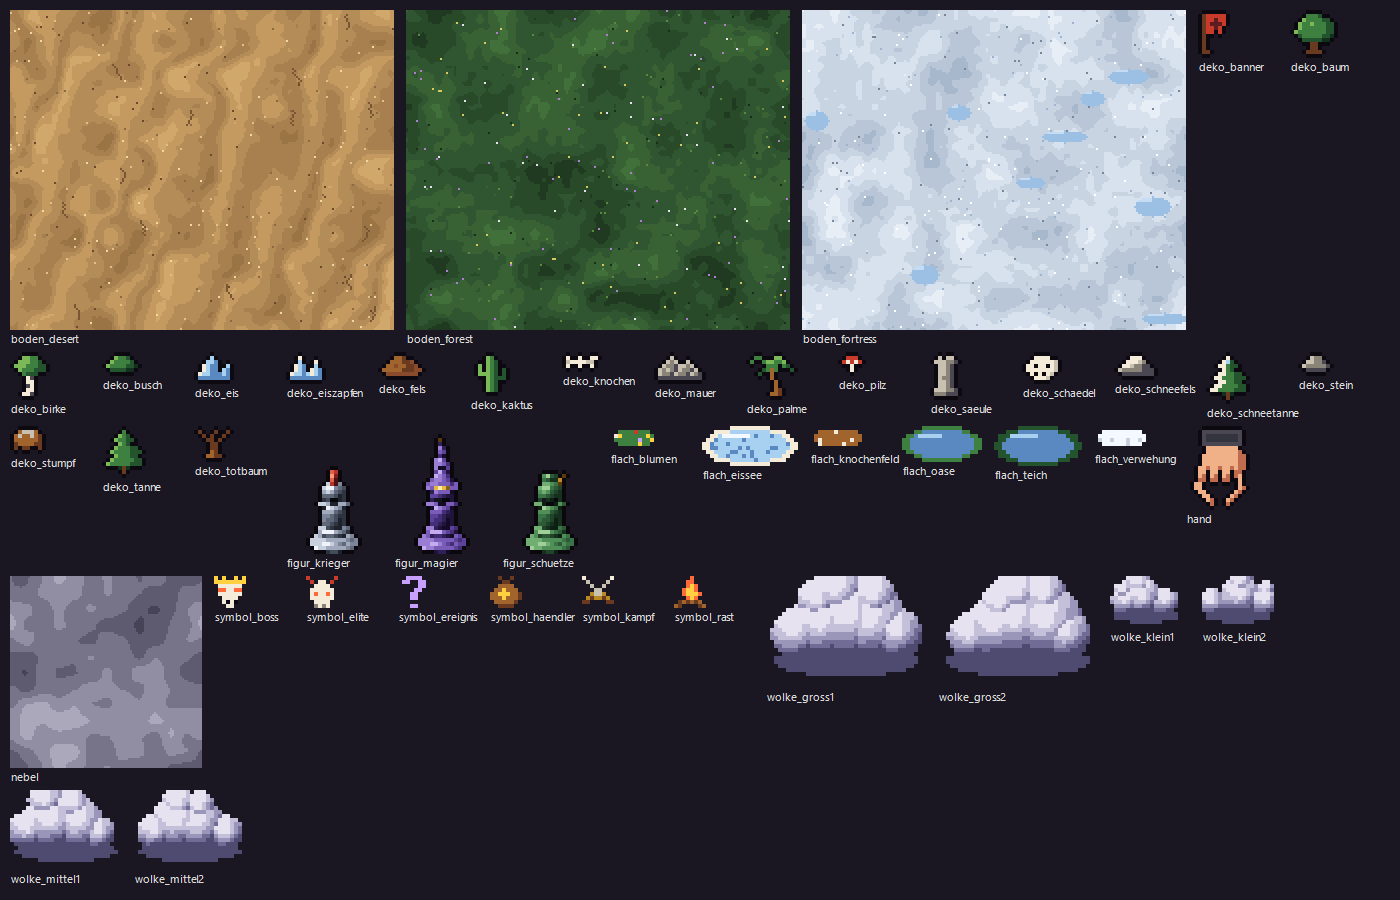
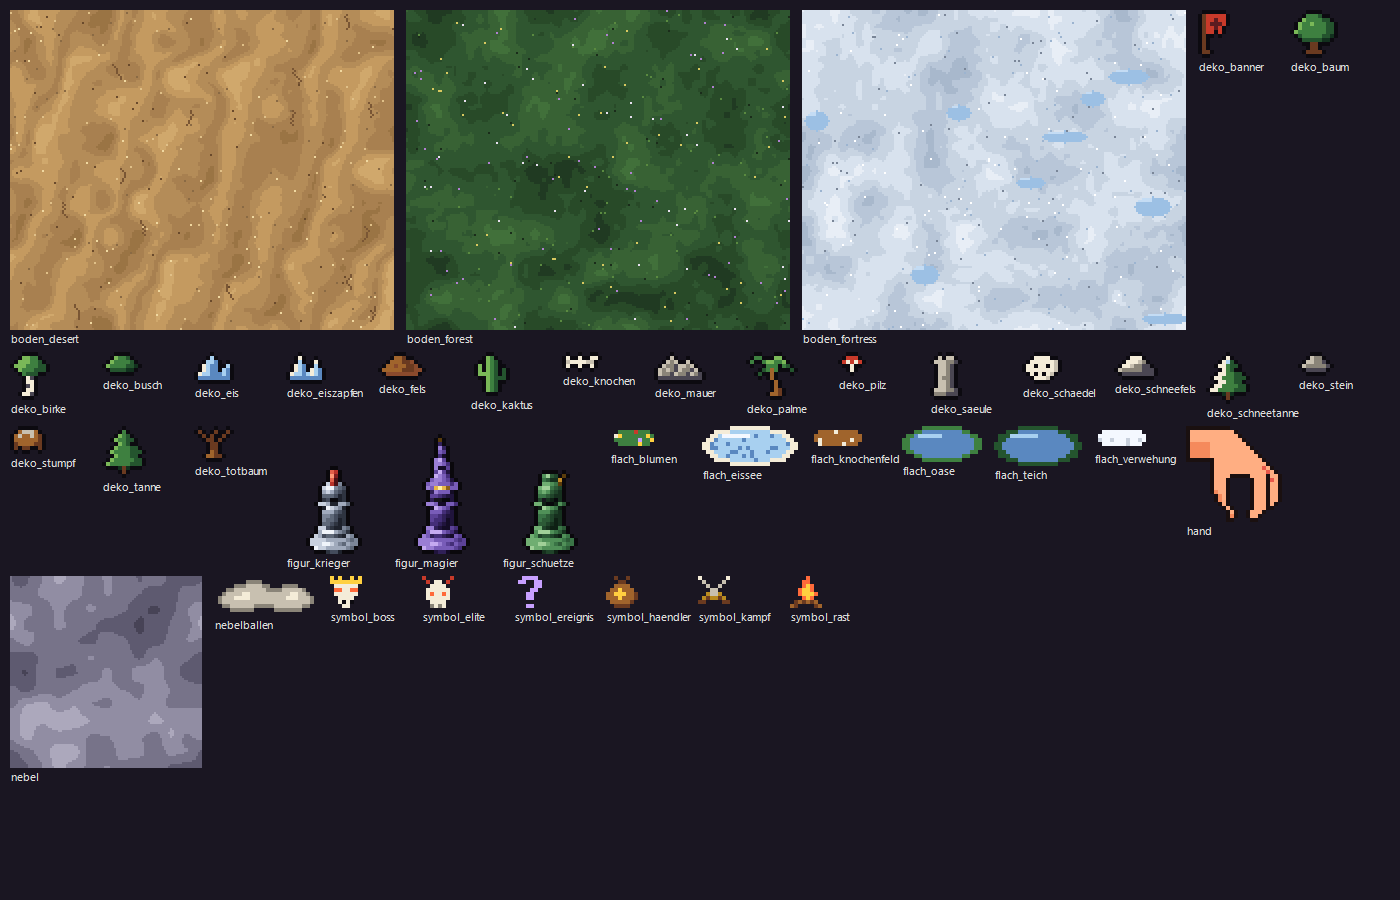
Simple reference-style hand, old fog back with a soft edge on the board, rounded board, HUD see-through only over the board

Changed region(s): [[0.1536, 0.6222, 0.9214, 0.7778], [0.0, 0.8711, 0.1843, 0.9956], [0.8293, 0.4667, 0.9214, 0.5911]]

diff --git a/ui/style.css b/ui/style.css
@@ -373,7 +373,7 @@ h3 { font-size: 12px; font-weight: 400; }
 .world .reg { position: absolute; z-index: 5; top: 12px; left: 50%; transform: translateX(-50%); text-align: center; background: #0c0a10cc; border: 2px solid var(--line); padding: 8px 16px; box-shadow: 4px 4px 0 #000; white-space: nowrap; }
 .world .reg small { display: block; margin-top: 6px; color: var(--mute); }
 .plane { position: absolute; bottom: 7%; height: 126%; transform-origin: 50% 100%; transform: rotateX(var(--tilt)); transform-style: preserve-3d;
-  background-size: 768px 640px; background-repeat: repeat; image-rendering: pixelated; border: 16px solid #6a4220; border-image: repeating-linear-gradient(90deg, #7a4c24 0 24px, #6a4020 24px 40px, #845428 40px 56px) 16; box-shadow: inset 0 0 40px 10px #0007, 0 0 0 4px #1c1008; }
+  background-size: 768px 640px; background-repeat: repeat; image-rendering: pixelated; border: 16px solid #6a4220; border-radius: 48px; box-shadow: inset 0 0 0 3px #3a2210, inset 0 0 40px 10px #0007, 0 0 0 4px #1c1008, inset 0 0 0 0 transparent; outline: 3px solid #8a5a2c; outline-offset: -10px; }
 .trails { position: absolute; inset: 0; width: 100%; height: 100%; overflow: visible; }
 @keyframes trail-run { to { stroke-dashoffset: -16; } }
 
@@ -382,10 +382,9 @@ h3 { font-size: 12px; font-weight: 400; }
 
 
 
-.fogwar { position: absolute; top: -7%; bottom: -16px; right: -16px; transform: translateZ(2px);
-  -webkit-mask-image: linear-gradient(90deg, transparent 0, #0008 50px, #000 120px), linear-gradient(180deg, transparent 0, #000 70px); mask-image: linear-gradient(90deg, transparent 0, #0008 50px, #000 120px), linear-gradient(180deg, transparent 0, #000 70px); -webkit-mask-composite: source-in; mask-composite: intersect; background: url(assets/karte/nebel.png) 0 0 / 384px 384px; image-rendering: pixelated; animation: fog-a 48s steps(96) infinite; }
+.fogwar { position: absolute; top: 0; bottom: 0; right: 0; border-radius: 0 34px 34px 0; transform: translateZ(2px);
+  -webkit-mask-image: linear-gradient(90deg, transparent 0, #0005 90px, #000d 200px, #000 260px); mask-image: linear-gradient(90deg, transparent 0, #0005 90px, #000d 200px, #000 260px); background: url(assets/karte/nebel.png) 0 0 / 384px 384px; image-rendering: pixelated; animation: fog-a 48s steps(96) infinite; }
 .fogwar::after { content: ""; position: absolute; inset: 0; background: inherit; background-size: 256px 256px; opacity: .45; animation: fog-b 32s steps(64) infinite; }
-.fogwar { filter: brightness(.62) saturate(1.2); }
 /* Each layer moves exactly one tile width, so the loop has no visible jump. */
 @keyframes fog-a { from { background-position: 0 0; } to { background-position: 384px 0; } }
 @keyframes fog-b { from { background-position: 0 0; } to { background-position: -256px 0; } }
@@ -466,9 +465,9 @@ h3 { font-size: 12px; font-weight: 400; }
 .spot.k-start.vis { filter: saturate(.2) brightness(.55); }
 
 /* A hand lowers the piece onto the chosen start point and pulls back up. */
-/* Hand: 28x28 pixel art at 4x, reaching in from the left; the pinch (14.7,24) sits on the piece head (48,61). */
-.hero .hand { display: none; position: absolute; left: -11px; top: -35px; width: 112px; height: 112px; filter: drop-shadow(0 6px 0 #0006); }
-.hero .hand img { position: relative; width: 112px; height: 112px; image-rendering: pixelated; }
+/* Hand: 24x24 pixel art at 4x, reaching in from the left; the pinch (14,22.5) sits on the piece head (48,61). */
+.hero .hand { display: none; position: absolute; left: -8px; top: -29px; width: 96px; height: 96px; filter: drop-shadow(0 6px 0 #0006); }
+.hero .hand img { position: relative; width: 96px; height: 96px; image-rendering: pixelated; }
 .hero.placing .hand { display: block; animation: hand-place 3s ease-in-out both; }
 .hero.placing .piece { animation: piece-place 3s ease-in-out both; }
 @keyframes piece-place { 0% { transform: translate(-460px, -420px); } 48% { transform: translate(-6px, -8px); } 56%, 100% { transform: translate(0, 0); } }
@@ -483,28 +482,16 @@ h3 { font-size: 12px; font-weight: 400; }
 .zoom { position: absolute; inset: 0; transform-style: preserve-3d; transform-origin: 50% 70%; transition: transform .2s ease-out; }
 .world.dragging .zoom { transition: none; }
 
-/* Fog running down the front and the right edge of the board. */
-.fogfall { position: absolute; background: url(assets/karte/nebel.png) 0 0 / 384px 384px; image-rendering: pixelated; pointer-events: none; }
-.fogfall.front { top: calc(100% + 16px); right: -16px; height: 170px; transform-origin: 50% 0; transform: translateZ(6px) rotateX(calc(-1 * var(--tilt) - 30deg));
-  -webkit-mask-image: linear-gradient(180deg, #000 0, #0009 45%, transparent 100%), linear-gradient(90deg, transparent 0, #000 120px); mask-image: linear-gradient(180deg, #000 0, #0009 45%, transparent 100%), linear-gradient(90deg, transparent 0, #000 120px); -webkit-mask-composite: source-in; mask-composite: intersect;
-  animation: fog-down 14s steps(96) infinite; }
-.fogfall.side { right: -16px; top: -16px; bottom: -16px; width: 150px; transform-origin: 100% 50%; transform: rotateY(-90deg) translateZ(-3px);
-  -webkit-mask-image: linear-gradient(270deg, #000 0, #0009 45%, transparent 100%); mask-image: linear-gradient(270deg, #000 0, #0009 45%, transparent 100%);
-  animation: fog-side 14s steps(96) infinite; }
-@keyframes fog-down { from { background-position: 0 0; } to { background-position: 0 384px; } }
-@keyframes fog-side { from { background-position: 0 0; } to { background-position: -384px 0; } }
 
-/* Sea of clouds over the fogged part of the board: billows slowly rolling,
-   and clouds pouring over the front edge like a waterfall. */
-.cloud img { display: block; image-rendering: pixelated; animation-name: cloud-roll; animation-timing-function: steps(10); animation-iteration-count: infinite; animation-direction: alternate; }
-.cloud.spill img { animation-name: cloud-spill; animation-timing-function: linear; animation-direction: normal; }
-@keyframes cloud-roll { 0% { transform: translate(0, 0) scale(1); } 50% { transform: translate(6px, -4px) scale(1.04); } 100% { transform: translate(-4px, 2px) scale(.98); } }
-@keyframes cloud-spill { 0% { transform: translateY(-24px) scale(.9); opacity: 0; } 15% { opacity: 1; } 55% { transform: translateY(70px) scale(1.05); opacity: .95; } 100% { transform: translateY(200px) scale(1.25); opacity: 0; } }
-
-/* The board fills the whole window behind the side panel; the panel floats
-   over it, half see-through, and fades further while the board is dragged. */
+/* The board fills the whole window behind the side panel, which floats over it. */
 .map-scene .world { position: fixed; inset: 0; width: auto; height: auto; margin: 0; z-index: 0; }
 .map-scene .side { position: relative; z-index: 3; transition: opacity .3s; }
-.map-scene .side .box { background: #0c0a10b8; backdrop-filter: blur(2px); }
-.map-scene:has(.world.dragging) .side { opacity: .25; }
+/* Only when the board lies under the panel does it turn slightly see-through. */
+.map-scene:has(.world.under-hud) .side { opacity: .82; }
 .map-scene .notice { position: relative; z-index: 4; }
+.puff img { animation: puff-bob 3s steps(3) infinite alternate; opacity: .95; }
+@keyframes puff-bob { to { transform: translateY(-6px) translateX(4px); } }
+/* Rounded board: the front and side faces stop short of the rounded corners. */
+.plane::after { left: 32px; right: 32px; }
+.bside { top: 32px; bottom: 32px; }
+.plane::before { border-radius: 64px; }

diff --git a/ui/src/worldmap.rs b/ui/src/worldmap.rs
@@ -13,6 +13,9 @@ const SIGHT: i32 = 2;
 const SPAN: f64 = 320.0;
 /// Where the hero stands, in percent of the window width.
 const HERO_AT: f64 = 32.0;
+/// Right edge of the side panel in pixels; the panel turns see-through when
+/// the board reaches under it.
+const HUD_EDGE: f64 = 192.0;
 /// Where the hero stands before the first step.
 const START: (f64, f64) = (3.5, 58.0);
 
@@ -538,57 +541,48 @@ pub fn world(game: Game, run: &Run) -> AnyView {
         }
     });
 
-    // --- Fog: a flat layer with a soft edge, puffs standing along it, and
-    // falls running down the edges of the board.
+    // --- Fog: a flat layer with a soft edge and puffs standing along it.
     let fog = fog_x.map(|fx| {
         let left = fx - 2.0;
-        // A sea of clouds: billows packed in rows from the back to the front,
-        // big ones at the leading edge and near the viewer, all slowly
-        // rolling. Along the front edge clouds keep pouring over the rim.
-        const SIZES: [(&str, f64, f64); 3] = [("gross", 40.0, 28.0), ("mittel", 28.0, 20.0), ("klein", 18.0, 13.0)];
-        let mut clouds: Vec<(f64, f64, usize, u64, &'static str)> = Vec::new();
+        // A wall of puffs along the soft edge, then loose banks over the
+        // fog, all kept on the board.
+        let mut spots: Vec<(f64, f64, f64)> = (0..10)
+            .map(|i| {
+                (
+                    fx + 0.8 + unit(mix(salt ^ i)) * 1.0,
+                    6.0 + i as f64 * 9.8,
+                    1.2,
+                )
+            })
+            .collect();
         let mut h = mix(salt ^ 0xF06);
-        let mut y = 2.0;
-        while y < 101.0 {
-            let mut x = fx + 0.8 + (unit(mix(h ^ 5)) + 1.0) * 1.2;
-            while x < 101.0 {
+        let mut x = fx + 6.0;
+        while x < 96.0 {
+            let mut y = 8.0 + (unit(h) + 1.0) * 4.0;
+            while y < 94.0 {
                 h = mix(h);
-                let edge = x < fx + 4.0;
-                let size = if edge || y > 80.0 { (h % 2) as usize } else { (h % 3) as usize };
-                clouds.push((x + unit(h) * 1.0, y + unit(mix(h)) * 2.0, size, h, "roll"));
-                x += if size == 0 { 4.6 } else if size == 1 { 3.4 } else { 2.6 };
+                spots.push((x + unit(h) * 2.0, y, 0.8 + (unit(mix(h)) + 1.0) * 0.3));
+                y += 18.0 + (unit(mix(h ^ 3)) + 1.0) * 5.0;
             }
-            y += 7.5;
+            x += 8.0;
         }
-        // Clouds tumbling over the front edge, staggered.
-        let mut x = fx + 1.0;
-        let mut k = 0u64;
-        while x < 100.0 {
-            h = mix(h ^ k);
-            clouds.push((x + unit(h) * 1.2, 100.5, (h % 2) as usize, h, "spill"));
-            x += 3.2;
-            k += 1;
-        }
-        let puffs = clouds
+        let puffs = spots
             .into_iter()
-            .map(|(x, y, size, h, kind)| {
-                let (name, w, ht) = SIZES[size];
-                let variant = 1 + (h >> 7) % 2;
-                let dur = if kind == "spill" { 7.0 + (h % 40) as f64 / 10.0 } else { 6.0 + (h % 60) as f64 / 10.0 };
-                let delay = (h >> 13) % 100;
+            .enumerate()
+            .map(|(i, (x, y, s))| {
                 standing(
                     x,
                     y,
-                    &format!("cloud {kind}"),
+                    "puff",
                     view! {
                         <img
-                            src=format!("assets/karte/wolke_{name}{variant}.png")
+                            src="assets/karte/nebelballen.png"
                             alt=""
                             style=format!(
-                                "width:{:.0}px;height:{:.0}px;animation-duration:{dur:.1}s;animation-delay:-{:.1}s",
-                                w * 5.0,
-                                ht * 5.0,
-                                dur * delay as f64 / 100.0,
+                                "width:{:.0}px;height:{:.0}px;animation-delay:-{}s",
+                                104.0 * s,
+                                40.0 * s,
+                                i * 7 % 5,
                             )
                         />
                     }
@@ -598,9 +592,6 @@ pub fn world(game: Game, run: &Run) -> AnyView {
             .collect_view();
         view! {
             <div class="fogwar" style=format!("left:{left:.2}%")></div>
-            // The fog spills over the rim and runs down the front and right side.
-            <div class="fogfall front" style=format!("left:{left:.2}%")></div>
-            <div class="fogfall side"></div>
             {puffs}
         }
     });
@@ -631,6 +622,7 @@ pub fn world(game: Game, run: &Run) -> AnyView {
     let zoom = game.map_zoom;
     let dragged = game.map_dragged;
     let drag = StoredValue::new(None::<(f64, f64, f64, f64)>);
+    let dragging = RwSignal::new(false);
     let view_w = || {
         window()
             .inner_width()
@@ -662,13 +654,17 @@ pub fn world(game: Game, run: &Run) -> AnyView {
                 dragged.set(true);
             }
             if dragged.get_untracked() {
+                dragging.set(true);
                 let z = zoom.get_untracked();
                 pan.set(clamp_pan(p0 + dx / view_w() * 100.0 / z));
                 pan_y.set(clamp_y(q0 + dy, z));
             }
         }
     };
-    let on_up = move |_| drag.set_value(None);
+    let on_up = move |_| {
+        drag.set_value(None);
+        dragging.set(false);
+    };
     let on_wheel = move |e: leptos::ev::WheelEvent| {
         e.prevent_default();
         let d = e.delta_y();
@@ -677,10 +673,29 @@ pub fn world(game: Game, run: &Run) -> AnyView {
         pan_y.update(|y| *y = clamp_y(*y, z));
     };
 
+    // Whether the board reaches under the side panel: measured on screen
+    // (perspective makes the near edge wider), a moment after each move.
+    let under_hud = RwSignal::new(false);
+    let plane_ref = NodeRef::<leptos::html::Div>::new();
+    Effect::new(move |_| {
+        pan.track();
+        zoom.track();
+        pan_y.track();
+        set_timeout(
+            move || {
+                if let Some(el) = plane_ref.get_untracked() {
+                    under_hud.set(el.get_bounding_client_rect().left() < HUD_EDGE);
+                }
+            },
+            std::time::Duration::from_millis(320),
+        );
+    });
+
     view! {
         <div
             class=format!("world w-{rid}")
-            class:dragging=move || dragged.get() && drag.get_value().is_some()
+            class:dragging=move || dragging.get()
+            class:under-hud=move || under_hud.get()
             on:pointerdown=on_down
             on:pointermove=on_move
             on:pointerup=on_up
@@ -699,6 +714,7 @@ pub fn world(game: Game, run: &Run) -> AnyView {
             >
             <div
                 class="plane"
+                node_ref=plane_ref
                 style=format!("background-image:url(assets/karte/boden_{rid}.png);width:{SPAN}%")
                 style:left=move || format!("{:.2}%", cam + pan.get())
             >

diff --git a/CLAUDE.md b/CLAUDE.md
@@ -14,7 +14,7 @@ Deckbuilder-Roguelike als reine Web-App (Rust + WebAssembly, statisch auf Cloudf
   - `portraets/basis/*.txt`: Porträts als Textraster (ein Zeichen pro Pixel, Palette im Kopf); `portraets/animationen.ps1` baut daraus die Spritesheets (Frames nebeneinander).
   - `haendler/haendler.ps1`: der Händler (32 × 32, schwarze Kutte, nur rote Augen in der Kapuze) mit je 8 Frames `idle`, `gruss` (beim Betreten), `abschied` (teuflisches Grinsen beim Verlassen; der Lauf geht erst nach der Animation weiter, `Game::leave_shop`). Sprüche in `ui/src/main.rs`.
   - `karte/karte.ps1`: Weltkarte: 8 × 8-Symbole je Knotenart, Boden je Gebiet (kachelbar, Draufsicht), aufrechte Deko-Sprites, Nebeltextur und Nebelballen. `karte/figuren.ps1`: Spielfigur je Held (24 × 32, aus 3D-Formen gerendert wie eine gedrechselte Schachfigur).
-- Weltkarte (`ui/src/worldmap.rs`): 2,5D-Spielbrett, eine per CSS 3D gekippte Bodenebene mit Holzrahmen (`--tilt`), Knoten als runde Spielfelder, Wege gepunktet, darauf aufrecht gedrehte Sprites (`.bb`) für Deko, Nebelballen und die Spielfigur. Deko: am hinteren Brettrand ein Waldsaum bzw. Felsgrat, vorne niedriges Gebüsch (`edges`), dazwischen kleine Szenen je Gebiet (`themes`: Hain, Teich, Ruinen, Oase, Eissee, ...), die sich abwechseln. 2–3 Knoten pro Reihe (`Map::generate`, Fix gegenüber dem Prototyp). Reihen laufen von links nach rechts (`SPAN`: Brettbreite in Prozent der Ansicht, `XS`: Ausgleich für Abstände), die Kamera folgt dem Helden. Das Brett hat dicke Seitenkanten (`.bside`, `.plane::after`); die Legende klappt oben rechts auf (`Game::legend_open`). Nebel des Krieges verdeckt alles ab zwei Reihen hinter der aktuellen (`SIGHT`); reine Anzeige, die engine kennt ihn nicht. Links liegen drei nummerierte Startpunkte (`Map::starts`, `START_LANES`, `Run::choose_start`); erst nach der Wahl senkt eine Hand die Figur aufs Brett (`Game::place_start`). Ohne gewählten Start ist die ganze erste Reihe erreichbar (Bots). Klick auf ein Feld hebt die Figur an und setzt sie dorthin (`Game::walk_to`), dann folgt `choose_node`. Die Ansicht lässt sich mit der Maus ziehen (`Game::map_pan`, ein Zug zentriert wieder), das Mausrad zoomt (`Game::map_zoom`). Die Hand (`hand.png`, Pixel-Art aus `karte/hand.ps1`) kommt von links oben, ohne Arm. Der Nebel ist ein Wolkenmeer: schattierte Wolkenwülste (`wolke_*.png`) stehen dicht im verdeckten Bereich und wogen, an der Vorderkante stürzen Wolken über den Rand (`.cloud.spill`), darunter eine weiche Nebelfläche (`.fogwar`, `.fogfall`). Das Brett liegt unter dem ganzen Fenster, die Seitenleiste schwebt halbtransparent darüber.
+- Weltkarte (`ui/src/worldmap.rs`): 2,5D-Spielbrett, eine per CSS 3D gekippte Bodenebene mit Holzrahmen (`--tilt`), Knoten als runde Spielfelder, Wege gepunktet, darauf aufrecht gedrehte Sprites (`.bb`) für Deko, Nebelballen und die Spielfigur. Deko: am hinteren Brettrand ein Waldsaum bzw. Felsgrat, vorne niedriges Gebüsch (`edges`), dazwischen kleine Szenen je Gebiet (`themes`: Hain, Teich, Ruinen, Oase, Eissee, ...), die sich abwechseln. 2–3 Knoten pro Reihe (`Map::generate`, Fix gegenüber dem Prototyp). Reihen laufen von links nach rechts (`SPAN`: Brettbreite in Prozent der Ansicht, `XS`: Ausgleich für Abstände), die Kamera folgt dem Helden. Das Brett hat dicke Seitenkanten (`.bside`, `.plane::after`); die Legende klappt oben rechts auf (`Game::legend_open`). Nebel des Krieges verdeckt alles ab zwei Reihen hinter der aktuellen (`SIGHT`); reine Anzeige, die engine kennt ihn nicht. Links liegen drei nummerierte Startpunkte (`Map::starts`, `START_LANES`, `Run::choose_start`); erst nach der Wahl senkt eine Hand die Figur aufs Brett (`Game::place_start`). Ohne gewählten Start ist die ganze erste Reihe erreichbar (Bots). Klick auf ein Feld hebt die Figur an und setzt sie dorthin (`Game::walk_to`), dann folgt `choose_node`. Die Ansicht lässt sich mit der Maus ziehen (`Game::map_pan`, ein Zug zentriert wieder), das Mausrad zoomt (`Game::map_zoom`). Die Hand (`hand.png`, einfaches Pixel-Raster in `karte/hand.ps1`) kommt von links oben, ohne Arm. Der Nebel (`.fogwar`, Nebelballen) bleibt auf dem Brett und blendet weich ein; das Brett hat abgerundete Ecken. Es liegt unter dem ganzen Fenster; die Seitenleiste wird nur leicht durchsichtig, wenn das Brett wirklich darunter liegt (gemessen, `HUD_EDGE`).
   - `karten/karten.ps1`: ein 8 × 8-Symbol pro Karte (`ui/assets/karten/<id>.png`, im Spiel 6-fach), von Hand als Raster mit gemeinsamer Palette. Eine neue Karte braucht dort einen Eintrag, sonst bricht das Skript ab.
   - `karten/rahmen.ps1`: 8-Bit-Pixelrahmen je Kartentyp (12 × 12, als CSS `border-image` 2-fach).
 - Kartendesign im 8-Bit-Stil: Pixelrahmen je Typ (Angriff abgeschrägt, Fertigkeit gerundet, Kraft mit Goldnieten, Status angeschlagen), geditherter Hintergrund nach Klasse, Bildrahmen und Edelstein nach Seltenheit, Schrift im ganzen Spiel „Press Start 2P“ (Größen möglichst Vielfache von 8 px, Kartentexte 8 px).
